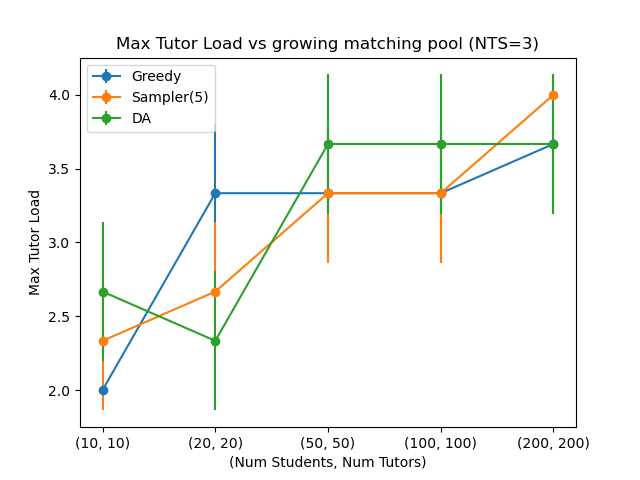
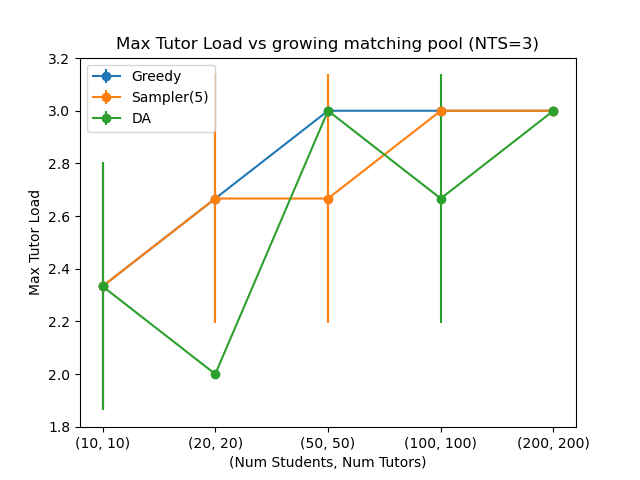
Fixed a couple of bugs in DA and recreated plots

diff --git a/experiments.py b/experiments.py
@@ -51,7 +51,7 @@ def plot(results, nts, title_sub):
         plt.savefig(f"plots/STR_bp_nts={nts}.png")
     plt.clf()
 
-    # Mean TL plot
+    # Median TL plot
     greedy_data = defaultdict(list)
     sampler_data = defaultdict(list)
     da_data = defaultdict(list)
@@ -77,13 +77,13 @@ def plot(results, nts, title_sub):
     )
     plt.errorbar(plot_x, da_y, yerr=da_err, label="DA", fmt="-o")
     plt.xlabel("(Num Students, Num Tutors)")
-    plt.ylabel("Mean Tutor Load")
-    plt.title(f"Mean Tutor Load vs growing matching pool (NTS={nts})")
+    plt.ylabel("Median Tutor Load")
+    plt.title(f"Median Tutor Load vs growing matching pool (NTS={nts})")
     plt.legend()
     if title_sub == "matching pool":
-        plt.savefig(f"plots/MP_mean_tl_nts={nts}.png")
+        plt.savefig(f"plots/MP_median_tl_nts={nts}.png")
     if title_sub == "student/tutor ratio":
-        plt.savefig(f"plots/STR_mean_tl_nts={nts}.png")
+        plt.savefig(f"plots/STR_median_tl_nts={nts}.png")
     plt.clf()
 
     # Max TL plot
@@ -177,7 +177,7 @@ def init_matching(ns, nt, nts, dim):
             i,
             tutor_embeds[i],
             oracle_tutor_prefs[i],
-            np.random.uniform(1, nts + 1),
+            np.random.randint(1, nts + 1),
         )
         for i in range(nt)
     ]
@@ -224,7 +224,7 @@ def run_matcher(
     tutor_load_stats = matches.get_tutor_load_stats()
     return (
         len(blocking_pairs),
-        tutor_load_stats["mean"],
+        tutor_load_stats["median"],
         tutor_load_stats["max"],
         tutor_load_stats["std"],
     )
@@ -334,7 +334,7 @@ def run_matching_pool_exp():
 
 def run_ratios_exp():
     ns_list = [50, 50, 50, 50]
-    nt_list = [100, 50, 40, 20]
+    nt_list = [100, 50, 40, 30]
     seeds = [1, 2, 3]
     nts_list = [3, 5]
     dim = 100

diff --git a/main.py b/main.py
@@ -110,7 +110,7 @@ def run_matching(args, load_data_path=None, save_data=False):
             i,
             tutor_embeds[i],
             oracle_tutor_prefs[i],
-            np.random.uniform(1, num_tutor_slots + 1),
+            np.random.randint(1, num_tutor_slots + 1),
         )
         for i in range(num_tutors)
     ]
@@ -197,10 +197,10 @@ def main(args):
 
     match = run_matching(args, save_data=False)
     blocking_pairs = match.get_blocking_pairs()
-    # for student in match.students:
-    #     print(student.oracle_ranking_list, student.init_ranking_list)
-    # print("+++++++++++++++++++++++++++++++++++++++++++++++++++++++++++++")
-    # print(match.matches)
+    for student in match.students:
+        print(student.init_ranking_list)
+    print("+++++++++++++++++++++++++++++++++++++++++++++++++++++++++++++")
+    print(match.matches)
     print("+++++++++++++++++++++++++++++++++++++++++++++++++++++++++++++")
     print(
         f"Matching completed! The match has {len(blocking_pairs)} blocking pairs."
@@ -208,6 +208,8 @@ def main(args):
     print("+++++++++++++++++++++++++++++++++++++++++++++++++++++++++++++")
     print(f"Tutor load stats: {match.get_tutor_load_stats()}")
     print("+++++++++++++++++++++++++++++++++++++++++++++++++++++++++++++")
+    for tutor in match.tutors:
+        print(tutor.current_matches, tutor.num_slots)
 
 
 if __name__ == "__main__":

diff --git a/matching/participants.py b/matching/participants.py
@@ -103,7 +103,7 @@ class Tutor(Participant):
 
         # Check if the proposing student is preferred over the worst match; if so, replace the worst match with this student.
         if student_pref < worst_match:
-            replaced_student_id = self.current_ranking_list[worst_match_idx]
+            replaced_student_id = self.current_matches[worst_match_idx]
             self.current_matches[worst_match_idx] = student_id
             return True, replaced_student_id
         else:
